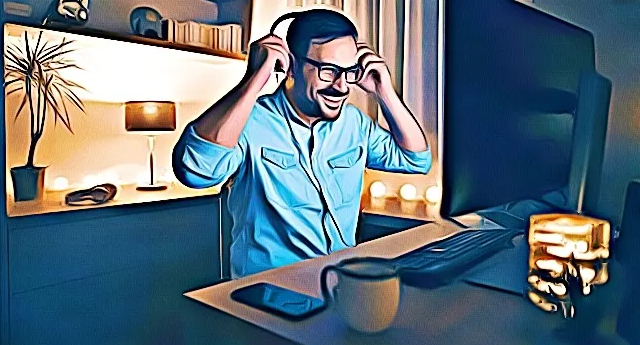
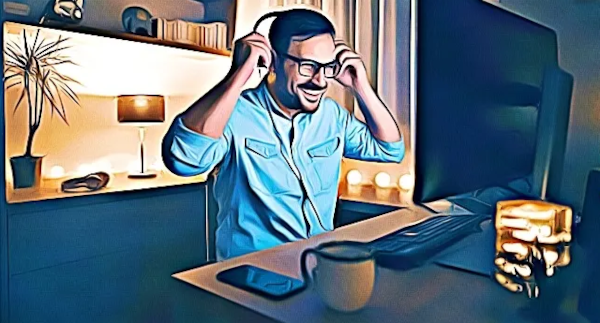
Optimize pictures

diff --git a/_posts/2023-02-09-the-remote-team-playbook.md b/_posts/2023-02-09-the-remote-team-playbook.md
@@ -3,7 +3,7 @@ layout: post
 title: "The Remote Team Playbook"
 author: Kaj Fehlhaber
 date: 2023-02-09
-cover_image: 2023-02-09-the-remote-team-playbook.png
+cover_image: 2023-02-09-the-remote-team-playbook.jpg
 --- 
 
 Was your Corona remote work period a lonely experience with a lot of Slack messages and PR:s to reivew? Well, it doesn't need to be that bad, but let me share some experiences with working with remote mob proramming as default.
@@ -107,7 +107,7 @@ I don't know how many times I've set this up for a team and productivity immedia
 ### Remote equipment
 Since work is done remote and the team will be in an online meetings for most of the workday, help each other out in having good audio and video. If a team member has a bad audio setup, make them aware of this. Have a small campaign in equipping everyone with a good microphone/headset - it's a simple way of removing obstacles.
 
-![](/assets/images/mob-cookbook/microphone.png)
+![](/assets/images/mob-cookbook/microphone.jpg)
 
 Video is also important, but the quality is not as important. Facial expressions, gestures and others are important parts during discussions - but video is also important just to show that you're actually there. Maybe there was an urgent call, children came crashing in during work or whatever reason? With video you can see what happened (or lack of video could indicate something happened).
 
